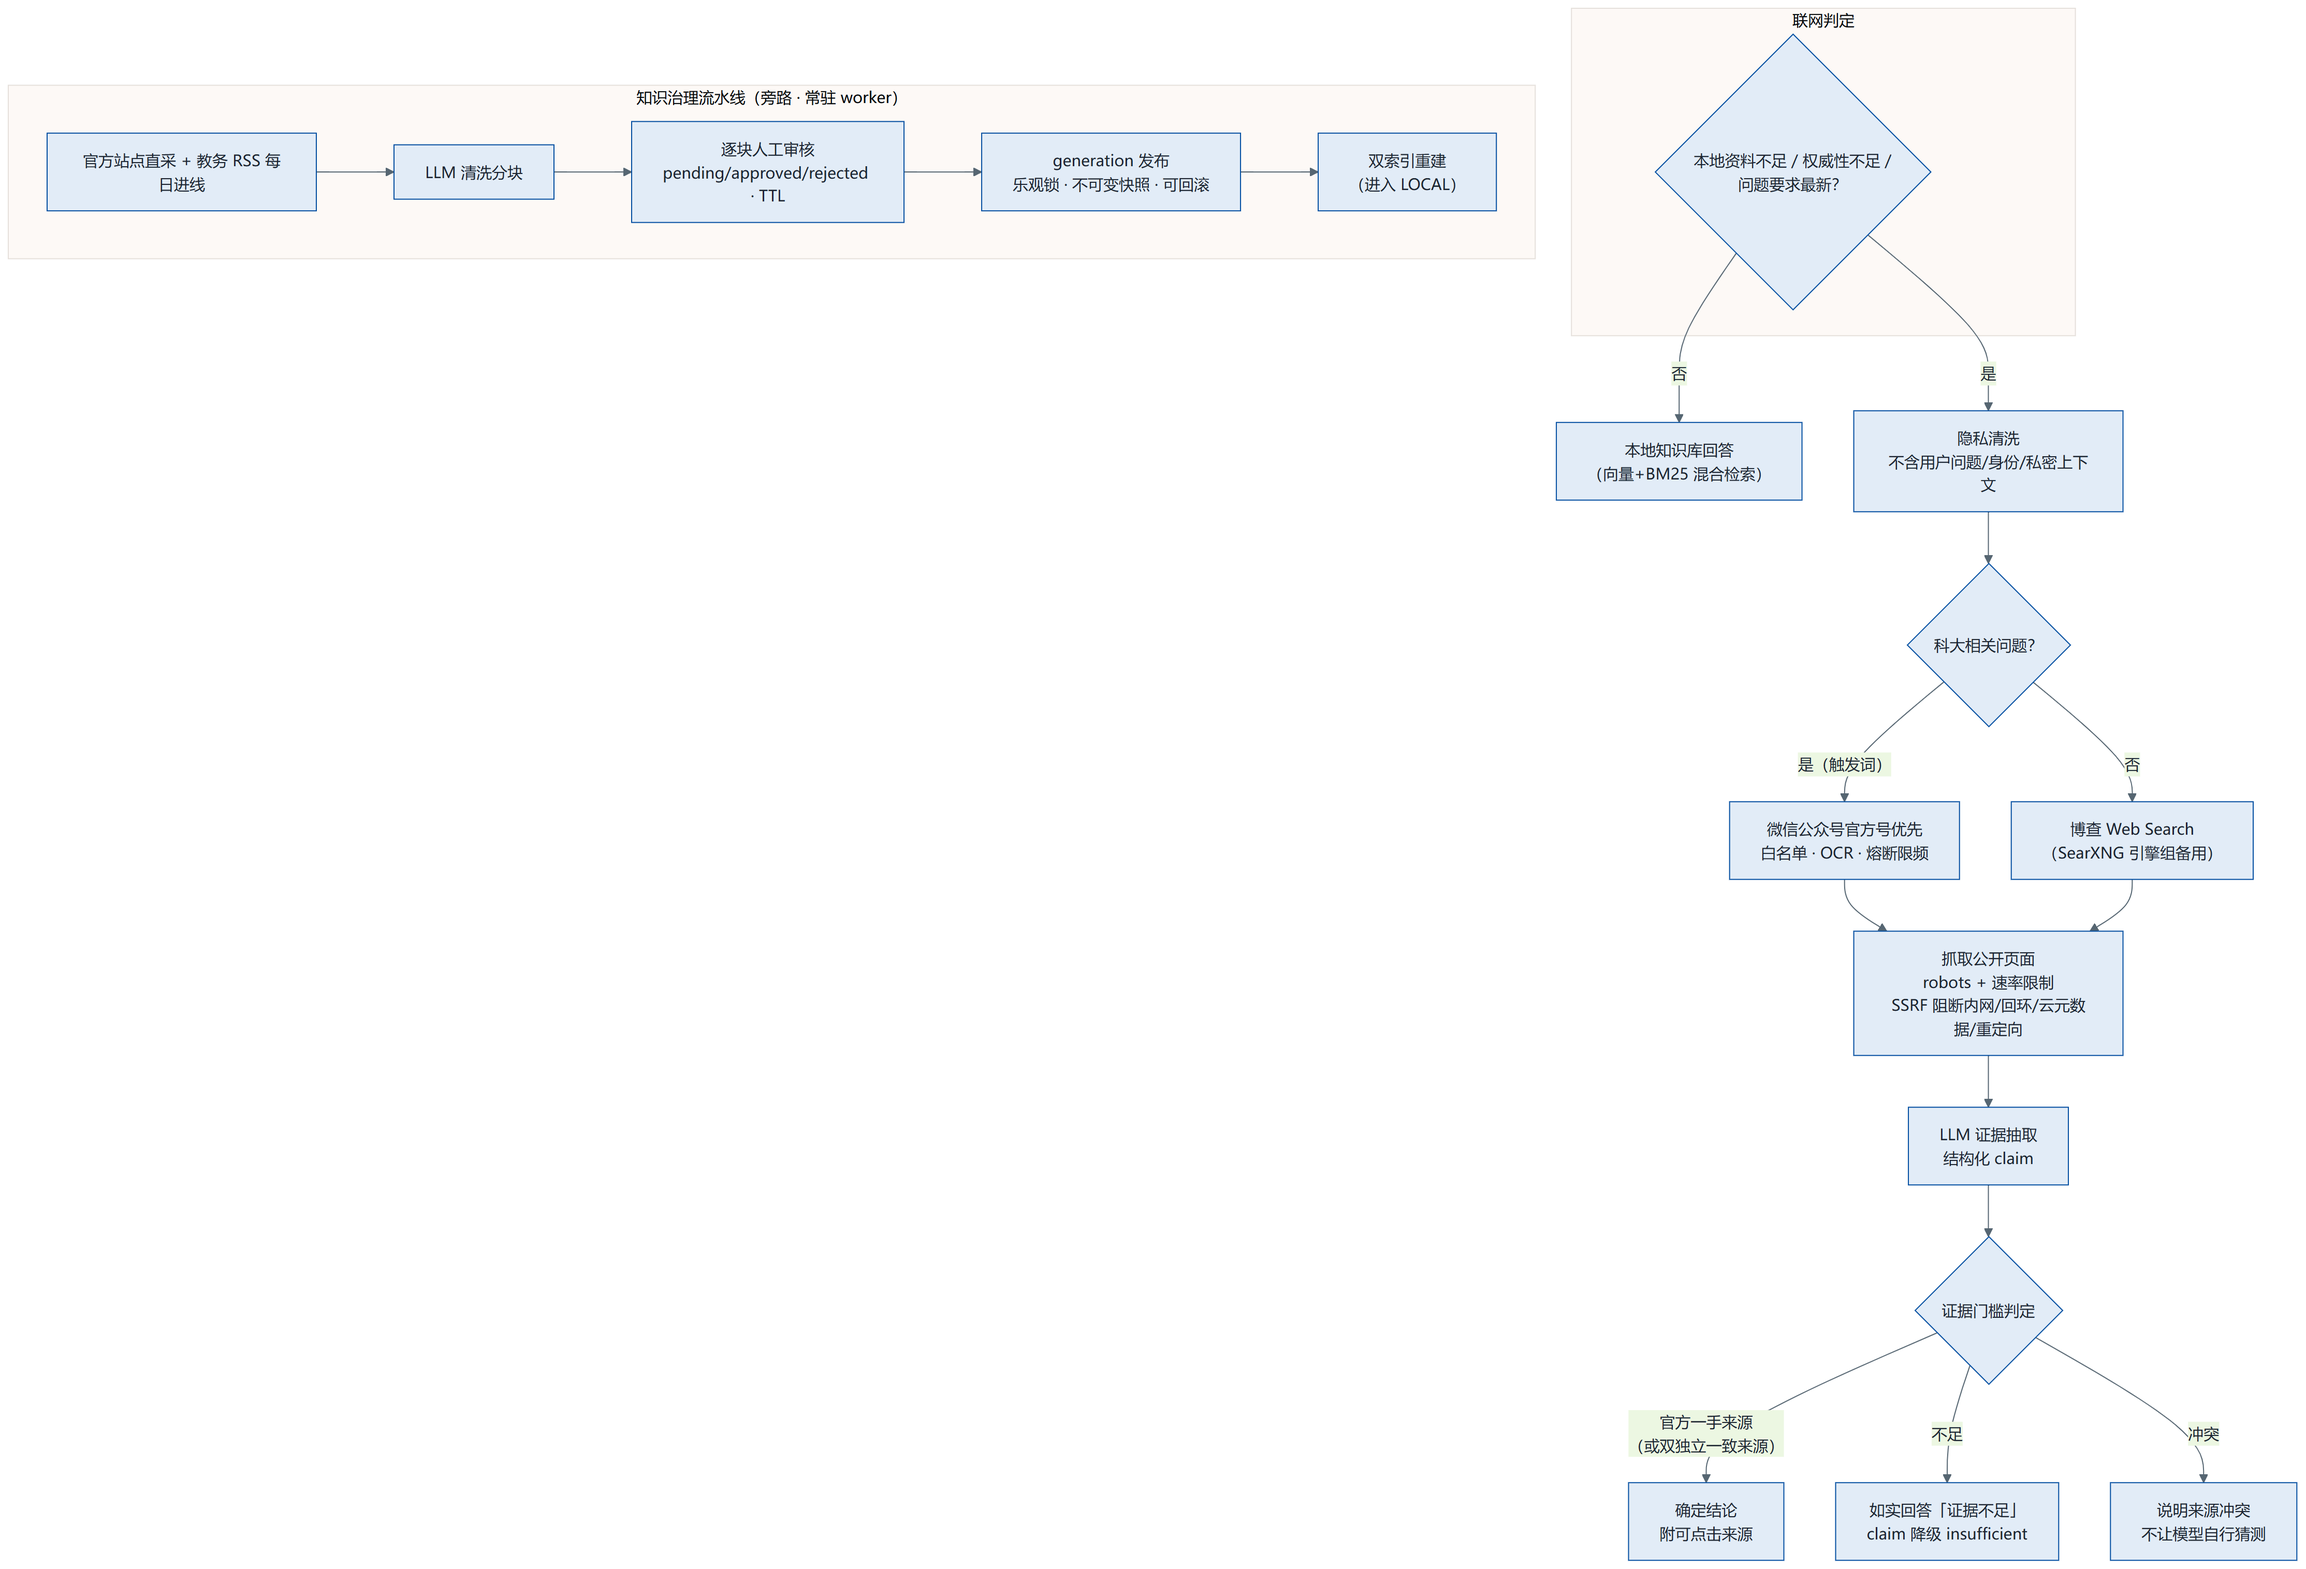
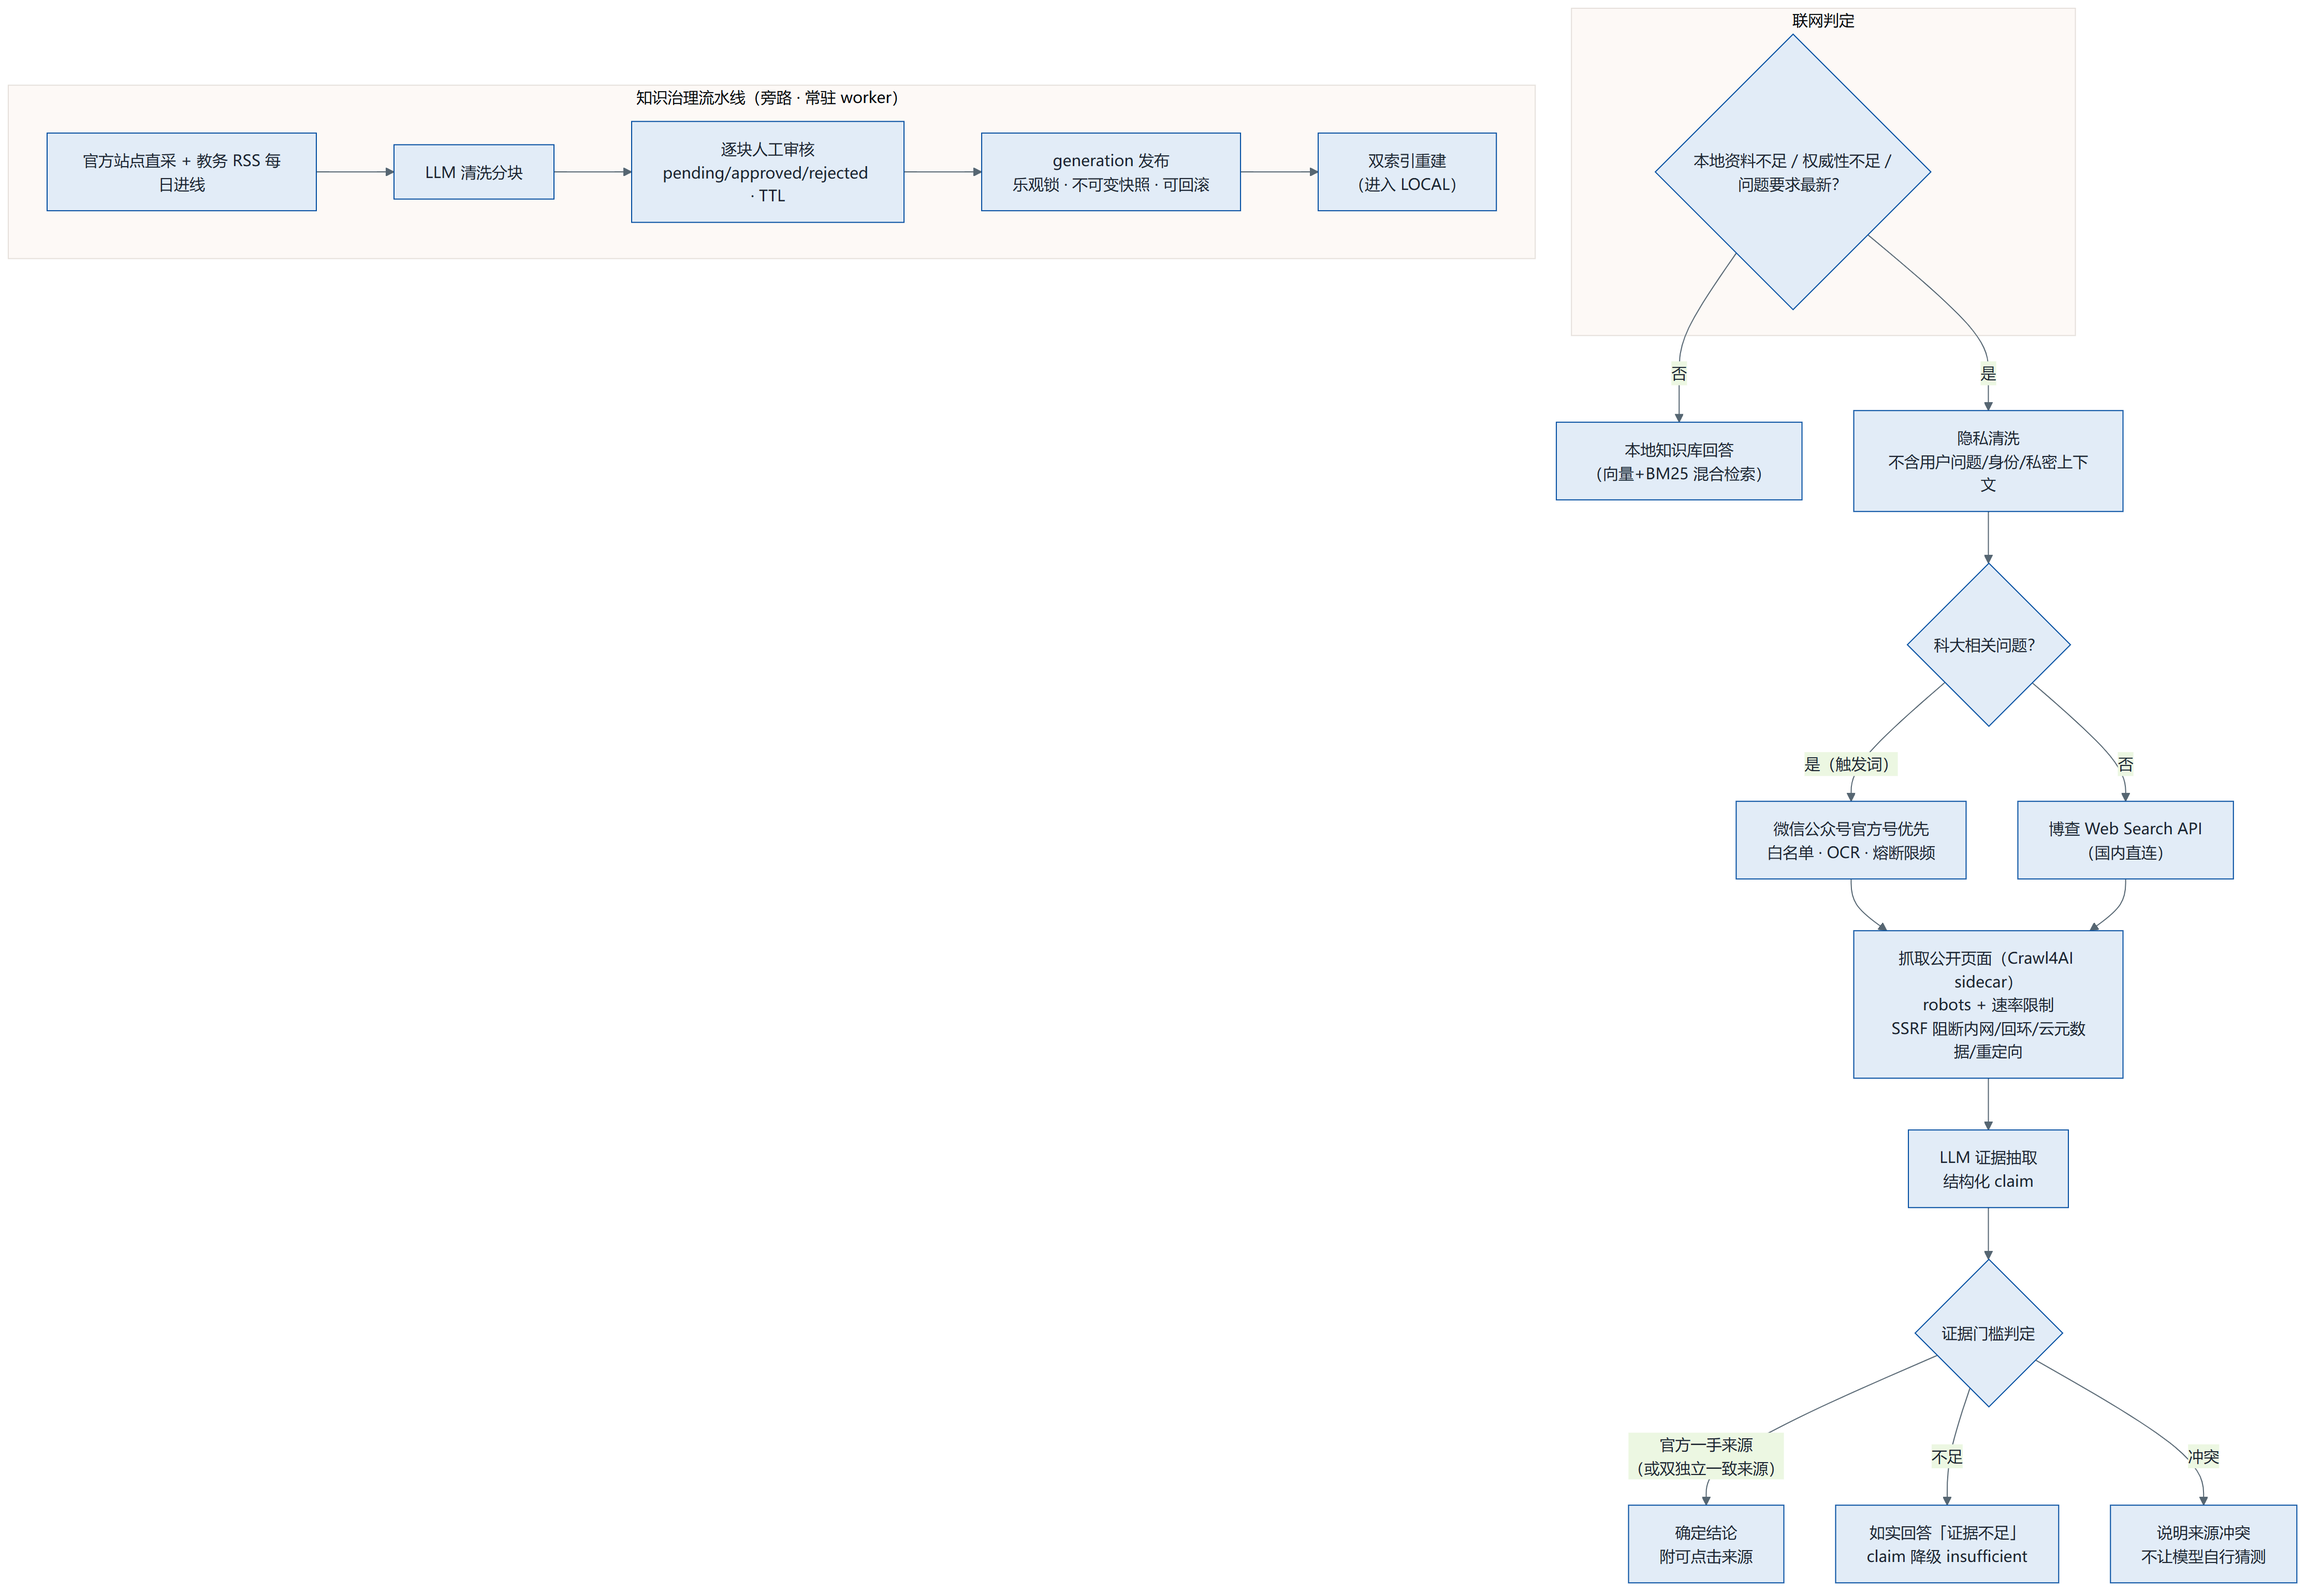
docs(107cup): 联网链路与实际一致——博查搜索国内直连 + Crawl4AI 抓取 sidecar，移除 SearXNG 备用表述

diff --git a/submission/build_docs.py b/submission/build_docs.py
@@ -66,7 +66,7 @@ BRIEF_SECTIONS: list[tuple[str, list]] = [
     ]),
     ("四、核心功能", [
         "智能问答（RAG）：80 篇校园知识文档、769 条向量分块的混合检索（向量 + BM25），回答附官方来源网址。",
-        "联网证据通道：本地资料不足或问题要求最新信息时，经隐私清洗后联网检索（博查 Web Search / SearXNG），"
+        "联网证据通道：本地资料不足或问题要求最新信息时，经隐私清洗后联网检索（博查 Web Search API 国内直连），"
         "并按证据门槛核验后才输出确定结论；科大相关问题优先检索微信公众号官方号。",
         "课业助手：成绩、GPA、周课表（1–13 小节精确映射科大校历时间）、考试安排、空教室查询。",
         "今日卡弹窗：登录用户打开页面即自动弹出今日概览——今日课程（真实课表周次+星期匹配）与今日开始的活动"
@@ -83,7 +83,8 @@ BRIEF_SECTIONS: list[tuple[str, list]] = [
         "经 LangChain ChatOpenAI 封装，用于意图分类、think 决策、compose 回答合成、查询改写、证据抽取五类调用点。",
         "向量模型：科大 LLM 平台 qwen3-embedding，用于知识分块向量化与语义检索。",
         "图片 OCR：科大 LLM 平台 unlimited-ocr，用于微信公众号文章配图的文字提取。",
-        "联网搜索：博查 Web Search API（国内直连）；SearXNG + Crawl4AI sidecar 作为备用通道。",
+        "联网搜索：博查 Web Search API（国内直连，无需自托管搜索引擎，搜索源可配置切换）；"
+        "页面抓取经 Crawl4AI sidecar（egress/robots/连接固定健康检查前置）。",
         "工具调用：30+ 内置工具经统一 Tool Registry 注册，智能体在决策循环中按需选择并可并行调用；"
         "个人数据类工具（成绩/课表/培养方案等）的学号由认证上下文强制注入，不接受用户输入伪造。",
         "校内服务对接：科大统一身份认证（CAS）、综合教务 jw API、青春科大 young 平台。",
@@ -231,7 +232,8 @@ DESIGN_SECTIONS: list[tuple[str, list]] = [
         "队列、超时、取消、busy 限制）/ 智能体层（LangGraph 图 + 30+ 工具注册表）/ 服务层（CAS/jw/young/LLM 熔断）"
         "/ 数据层（三 SQLite 库 + ChromaDB/BM25 generation 版本化）。",
         "关键设计决策：同步 LangGraph 经有界线程池执行，不阻塞 FastAPI 事件循环；SSE 事件持久化 SQLite + "
-        "进程内通知唤醒 + 1 秒轮询兜底（支持 Last-Event-ID 断线续传）；审核/发布 worker 与 Web 进程分离，"
+        "进程内通知唤醒 + 1 秒轮询兜底（支持 Last-Event-ID 断线续传）；联网链路为博查搜索（国内直连）+ "
+        "Crawl4AI 抓取 sidecar（egress/robots 健康检查前置），无自托管搜索引擎依赖；审核/发布 worker 与 Web 进程分离，"
         "发布约束（乐观锁、generation、不可变快照）保证知识库变更可追溯可回滚。",
         ("h3", "4.3 调试与优化能力（输出可靠性与响应效率）"),
         ("img", "4-streaming.png", "图 4  流式响应时序（真实 SSE 事件时间线，问题\"我的成绩怎么样\"）"),
